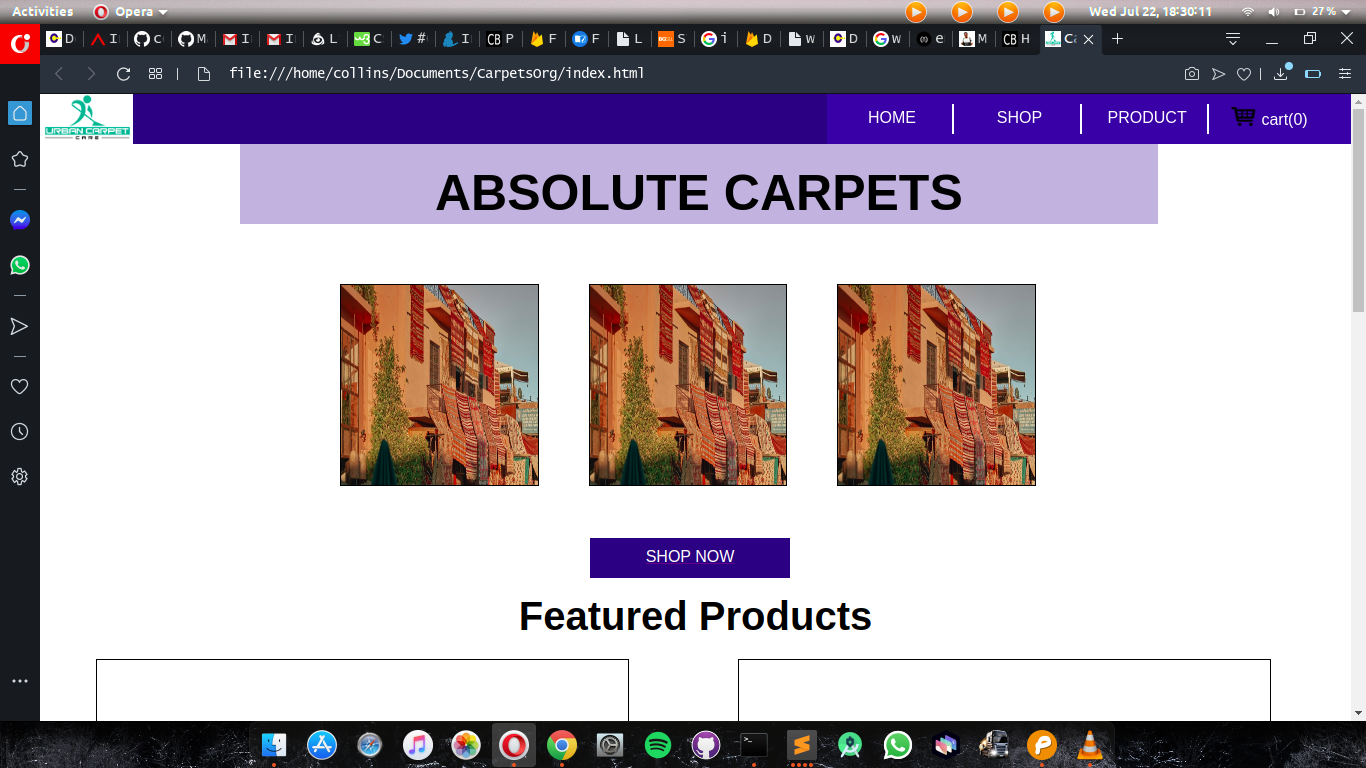
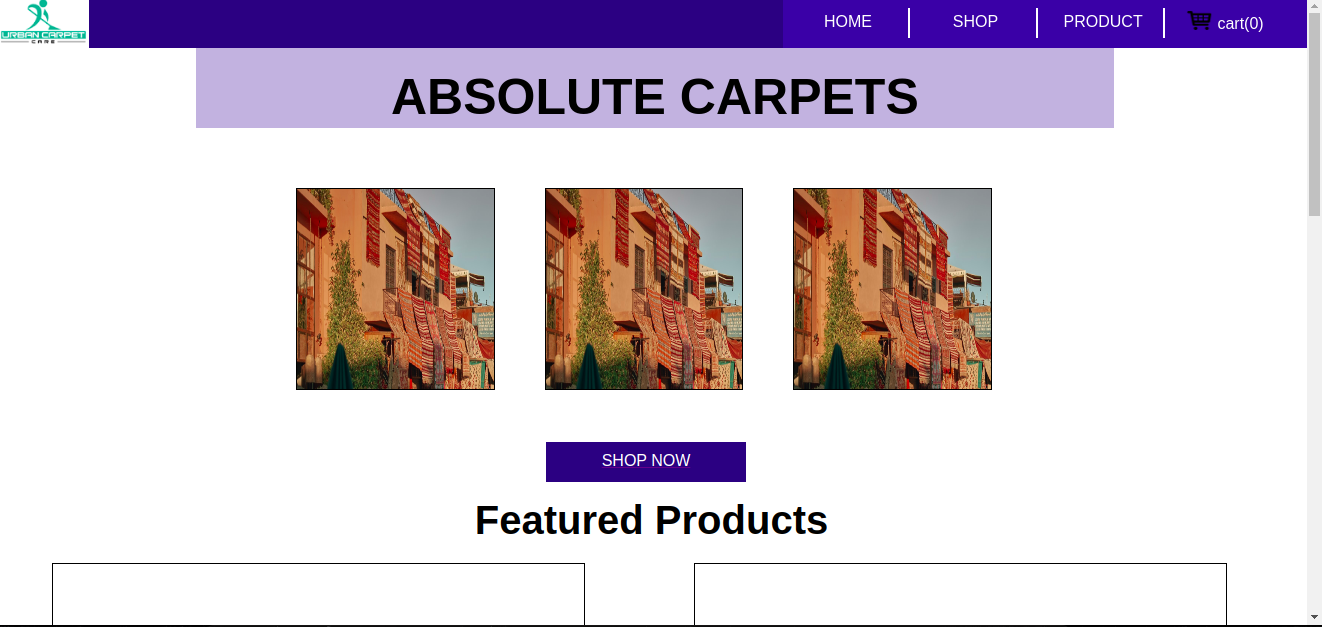
updated binary files

diff --git a/css/style.css b/css/style.css
@@ -4,7 +4,6 @@
 	box-sizing: border-box;
 }
 body{
-	height: 10000px;
 	background-color: #fff;
 	font-family: sans-serif;
 }
@@ -356,5 +355,11 @@ body{
 	.content-1 .lang .Cat{
 		margin-right: 0;
 		margin-left: 1%;
+	}
+	.content .content-img{
+		width: 100%;
+	}
+	.content .content-text{
+		width: 100%;
 	}
 }
